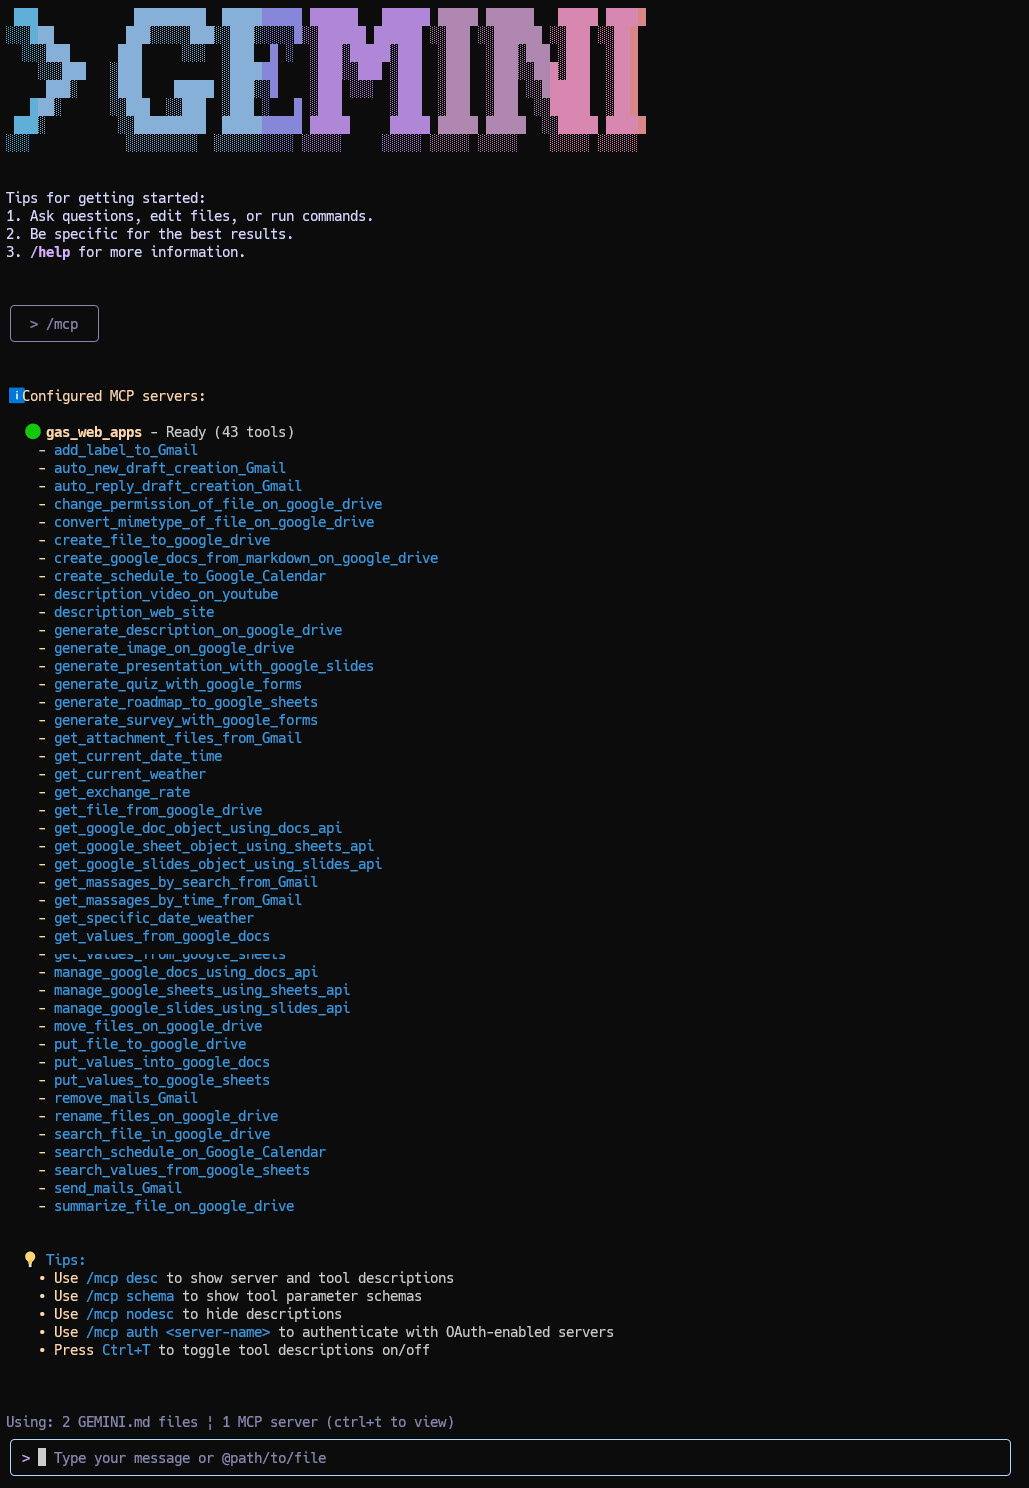
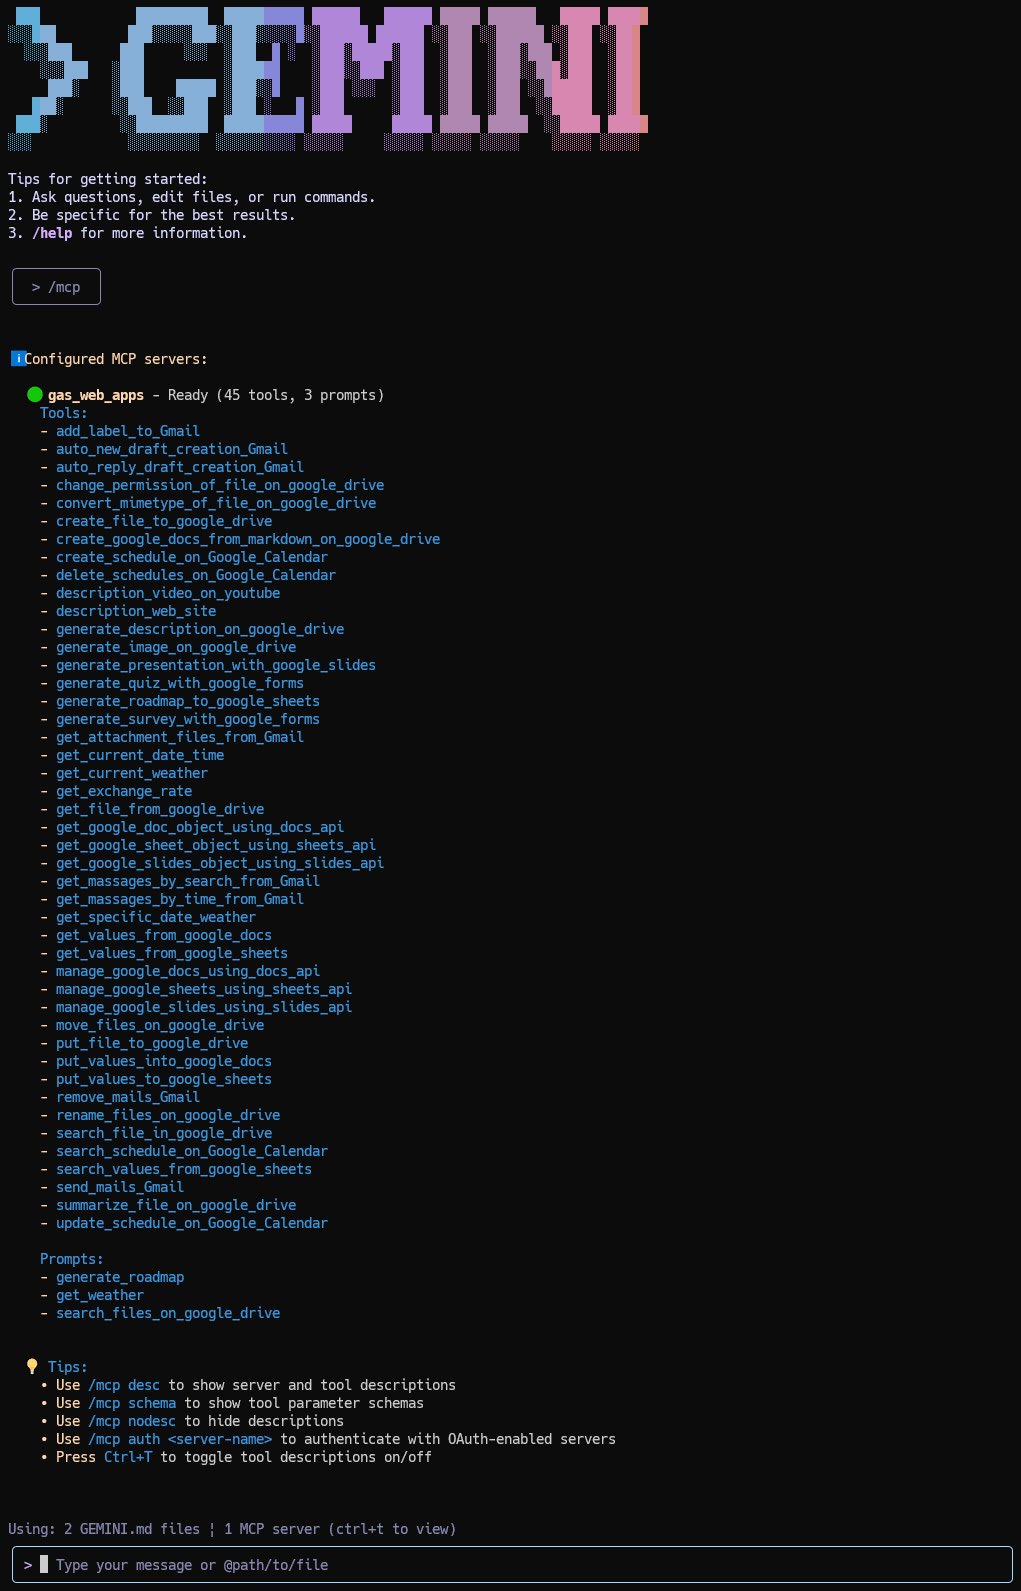
Updated to v1.0.13

Changed region(s): [[0.0, 0.2164, 1.0, 1.0], [0.0, 0.0, 0.6376, 0.1855]]

diff --git a/main_library_side.js b/main_library_side.js
@@ -3,8 +3,8 @@
  * Author: Kanshi Tanaike
  * https://github.com/tanaikech/ToolsForMCPServer
  * 
- * Updated on 20250731 09:55
- * version 1.0.12
+ * Updated on 20250801 14:15
+ * version 1.0.13
  */
 
 /**
@@ -113,7 +113,78 @@ function getTools(object = {}) {
 
     {
       "type": "prompts/list",
-      "value": { "prompts": [] }
+      "value": {
+        "prompts": [
+          {
+            name: "search_files_on_google_drive",
+            description: "Search files on Google Drive.",
+            arguments: [
+              { name: "filename", description: "Filename of the search file.", required: true },
+            ],
+          },
+          {
+            name: "get_weather",
+            description: "Search the current weather.",
+            arguments: [
+              { name: "location", description: "Location of the weather.", required: true },
+            ],
+          },
+          {
+            name: "generate_roadmap",
+            description: "Generate a roadmap in Google Sheets.",
+            arguments: [
+              { name: "goal", description: "Goal of the roadmap.", required: true },
+            ],
+          },
+        ]
+      }
+    },
+
+    {
+      "type": "prompts/get",
+      "value": {
+        "search_files_on_google_drive": {
+          description: "Search files on Google Drive.",
+          messages: [
+            {
+              role: "user",
+              content: {
+                type: "text",
+                text: "Return file metadata of '{{filename}}' on Google Drive.",
+              },
+            },
+          ],
+        },
+        "get_weather": {
+          description: "Search the current weather.",
+          messages: [
+            {
+              role: "user",
+              content: {
+                type: "text",
+                text: "What is the current weather in {{location}}?",
+              },
+            },
+          ],
+        },
+        "generate_roadmap": {
+          description: "Generate a roadmap in Google Sheets.",
+          messages: [
+            {
+              role: "user",
+              content: {
+                type: "text",
+                text: [
+                  `Create a roadmap for a new Google Spreadsheet with the goal of "{{goal}}".`,
+                  `1. Create a new Google Spreadsheet.`,
+                  `2. Generate a detailed roadmap in the spreadsheet to reach the goal.`,
+                  `3. Return the spreadsheet's URL.`,
+                ].join("\n"),
+              },
+            },
+          ],
+        },
+      }
     },
 
     {

diff --git a/README.md b/README.md
@@ -25,7 +25,7 @@ Building upon that foundation, this report aims to explore the expanded possibil
 
 # Current tools
 
-In the current stage (July 29, 2025), the following 45 tools are provided by [ToolsForMCPServer](https://github.com/tanaikech/ToolsForMCPServer) for the MCP server.
+In the current stage (August 1, 2025), the following 45 tools are provided by [ToolsForMCPServer](https://github.com/tanaikech/ToolsForMCPServer) for the MCP server.
 
 * `add_label_to_Gmail`: Adds labels to Gmail threads, ensuring valid thread IDs are used.
 * `auto_new_draft_creation_Gmail`: Automatically creates Gmail draft emails, returning message and draft IDs.
@@ -72,6 +72,14 @@ In the current stage (July 29, 2025), the following 45 tools are provided by [To
 * `send_mails_Gmail`: Sends pre-created draft emails from Gmail.
 * `summarize_file_on_google_drive`: Describes and summarizes a file located on Google Drive.
 * `update_schedule_on_Google_Calendar`: Updates an existing schedule (event) on Google Calendar.
+
+# Current prompts
+
+In the current stage (August 1, 2025), the following 3 prompts are provided by [ToolsForMCPServer](https://github.com/tanaikech/ToolsForMCPServer) for the MCP server.
+
+* `generate_roadmap`: Generate a roadmap in Google Sheets.
+* `get_weather`: Search the current weather.
+* `search_files_on_google_drive`: Search files on Google Drive.
 
 # Usage
 
@@ -1076,6 +1084,14 @@ The following samples were added on July 29, 2025.
 
 In this case, you can see the samples at **"[Next-Level Data Automation: Gemini CLI, Google Calendar, and MCP](https://medium.com/@tanaike/next-level-data-automation-gemini-cli-google-calendar-and-mcp-1b9e39e75f34)"**.
 
+---
+
+The following samples were added on August 1, 2025.
+
+
+
+---
+
 # Summary
 
 The examples above demonstrate that combining the Gemini CLI with an MCP server built using Google Apps Script Web Apps enables powerful automation across Google Workspace. By leveraging Google Apps Script's inherent authorization capabilities, we can easily give Gemini access to Gmail, Calendar, Drive, Docs, Sheets, and Slides.
@@ -1084,9 +1100,12 @@ The samples provided represent only a small subset of what is possible. The `Too
 
 # Appendix
 
-## Add custom tools
+## Add custom tools and prompts
 
-You might want to add your custom tools to the MCP server. At that time, please refer to the following script.
+You might want to add your custom tools and promts to the MCP server. At that time, please refer to the following script.
+
+If you are required to add only tools, please remove `prompts/list` and `prompts/get` from `itemsForMCP`.
+If you are required to add only prompts, please remove `tools/list` from `itemsForMCP`.
 
 ```javascript
 /**
@@ -1115,7 +1134,7 @@ function getCustomTools() {
     {
       "type": "initialize",
       "value": {
-        "protocolVersion": "2024-11-05", // or "2025-03-26"
+        "protocolVersion": "2025-03-26",
         "capabilities": { "tools": { "listChanged": false } },
         "serverInfo": { "name": "gas_web_apps", "version": "1.0.0" }
       }
@@ -1129,10 +1148,61 @@ function getCustomTools() {
           description: functions.params_[f].description,
           inputSchema: functions.params_[f].parameters,
         }
-      }))
+      })),
+
+    {
+      "type": "prompts/list",
+      "value": {
+        "prompts": [
+          {
+            name: "custom1",
+            description: "Custom 1",
+            arguments: [
+              { name: "sample1", description: "sample1", required: true },
+            ],
+          },
+          {
+            name: "custom2",
+            description: "Custom 2",
+            arguments: [
+              { name: "sample2", description: "sample2", required: true },
+            ],
+          },
+        ]
+      }
+    },
+
+    {
+      "type": "prompts/get",
+      "value": {
+        "custom1": {
+          description: "Custom1",
+          messages: [
+            {
+              role: "user",
+              content: {
+                type: "text",
+                text: "Custom1",
+              },
+            },
+          ],
+        },
+        "custom2": {
+          description: "Custom2",
+          messages: [
+            {
+              role: "user",
+              content: {
+                type: "text",
+                text: "Custom2",
+              },
+            },
+          ],
+        },
+      }
+    },
   ];
 
-  // return itemsForMCP;
   return itemsForMCP;
 }
 
@@ -1251,5 +1321,9 @@ function main(eventObject) {
 - v1.0.12 (July 31, 2025)
 
   1. At Gemini CLI v0.1.15, `prompts/list` was called even when **`prompts` wasn't included in `capabilities`**. This resulted in the error `Error discovering prompts from gas_web_apps: MCP error -32001: Request timed out` when `prompts` wasn't returned for `prompts/list`. To resolve this, I updated `ToolsForMCPServer` to **return an empty array for `prompts`**, which eliminated the error. Consequently, with this update in v1.0.12, you can now **set custom `prompts` and `resources`**.
+
+- v1.0.13 (August 1, 2025)
+
+  1. `prompts/get` was updated. And, 3 prompts were added.
 
 [TOP](#top)
